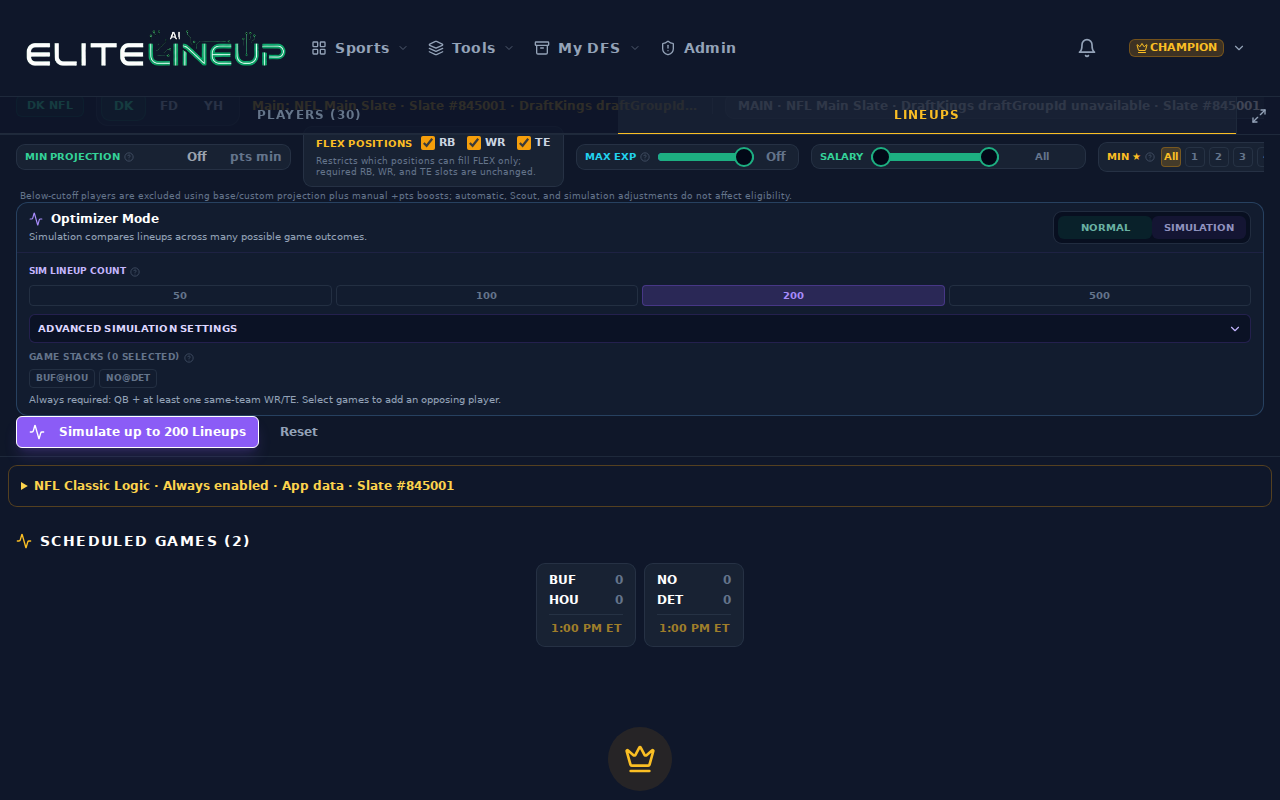
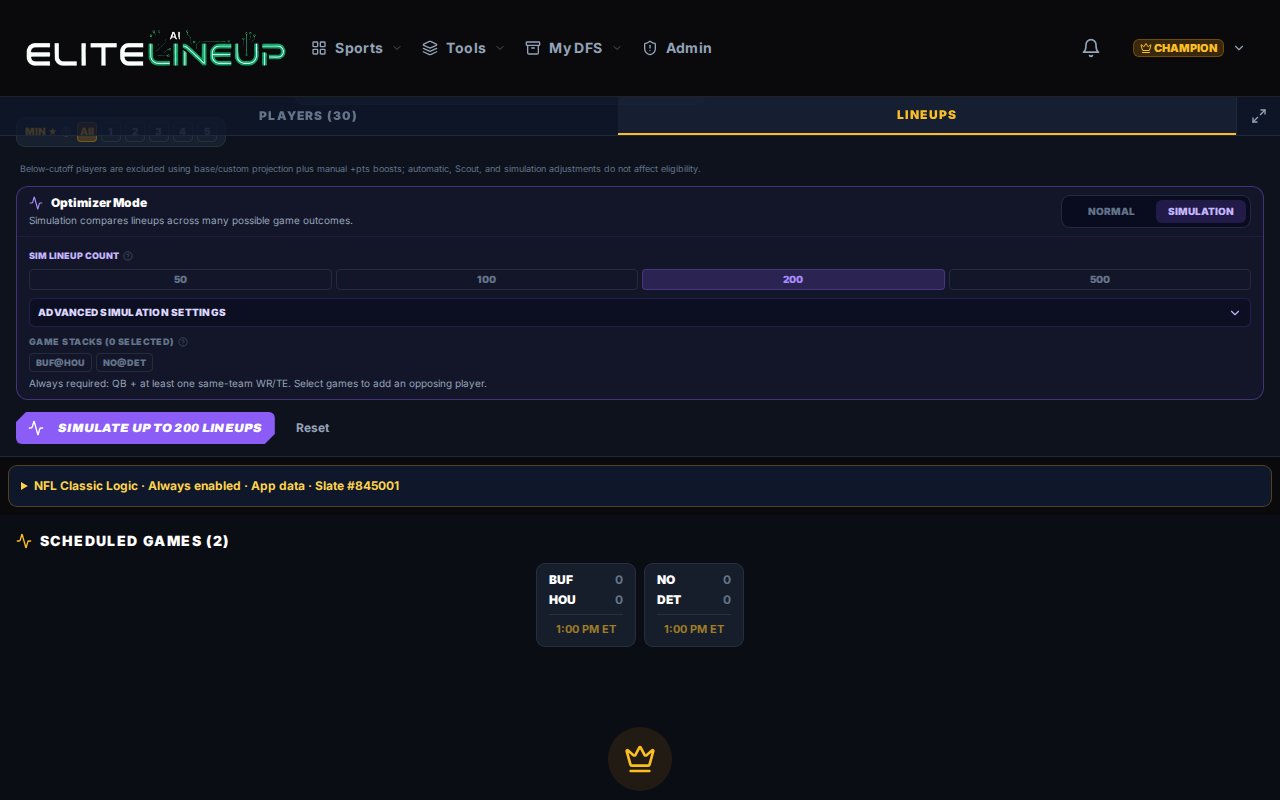
Update Pro Optimizer styling and refresh visual documentation screenshots
Replit-Commit-Author: Agent

diff --git a/client/src/pages/ProOptimizer.tsx b/client/src/pages/ProOptimizer.tsx
@@ -1278,10 +1278,10 @@ export default function ProOptimizer() {
         </button>
       </div>}
       {/* Top Controls Bar */}
-      {!playerFocus && <div className="border-b border-slate-800 bg-slate-900/60 px-4 py-2">
-        <div className="flex flex-col gap-2 md:gap-0">
+      {!playerFocus && <div className="border-b border-slate-800 bg-slate-900/60 px-4 py-3">
+        <div className="flex flex-col gap-3">
           {/* Row 1: Slate info + selector */}
-          <div className="flex items-center gap-3 overflow-x-auto scrollbar-hide">
+          <div className="flex flex-wrap items-center gap-x-4 gap-y-3">
             <Badge className={`text-[11px] font-black flex-shrink-0 ${pColors.bg} ${pColors.text} ${pColors.border}`} data-testid="badge-platform">
               {config.shortLabel} {sport}
             </Badge>
@@ -1399,7 +1399,7 @@ export default function ProOptimizer() {
 
           {/* Row 2 (Desktop): Max Exposure + Salary Range */}
           {(isPro && (simMode ? numSims : lineupCount) > 1 || (players && players.length > 0)) && (
-            <div className="hidden md:flex items-center gap-3 overflow-x-auto scrollbar-hide">
+            <div className="hidden md:flex flex-wrap items-center gap-x-4 gap-y-3">
               <div className="flex items-center gap-2 bg-slate-800/60 rounded-lg px-2 py-1 border border-slate-700/50 flex-shrink-0">
                 <LabelTip text="Exclude players whose base projection is below this cutoff. Custom projections and manual +pts boosts are included; automatic, Scout, and simulation adjustments do not affect eligibility."><label htmlFor="input-min-projection" className="text-[10px] font-black text-emerald-400 uppercase whitespace-nowrap">Min Projection</label></LabelTip>
                 <input

diff --git a/client/src/index.css b/client/src/index.css
@@ -248,6 +248,13 @@
     border: 1px solid rgba(59,130,246,0.2);
   }
   /* Scrollbar styling */
+  .scrollbar-hide {
+    -ms-overflow-style: none;
+    scrollbar-width: none;
+  }
+  .scrollbar-hide::-webkit-scrollbar {
+    display: none;
+  }
   .scrollbar-thin::-webkit-scrollbar {
     height: 4px;
     width: 4px;
